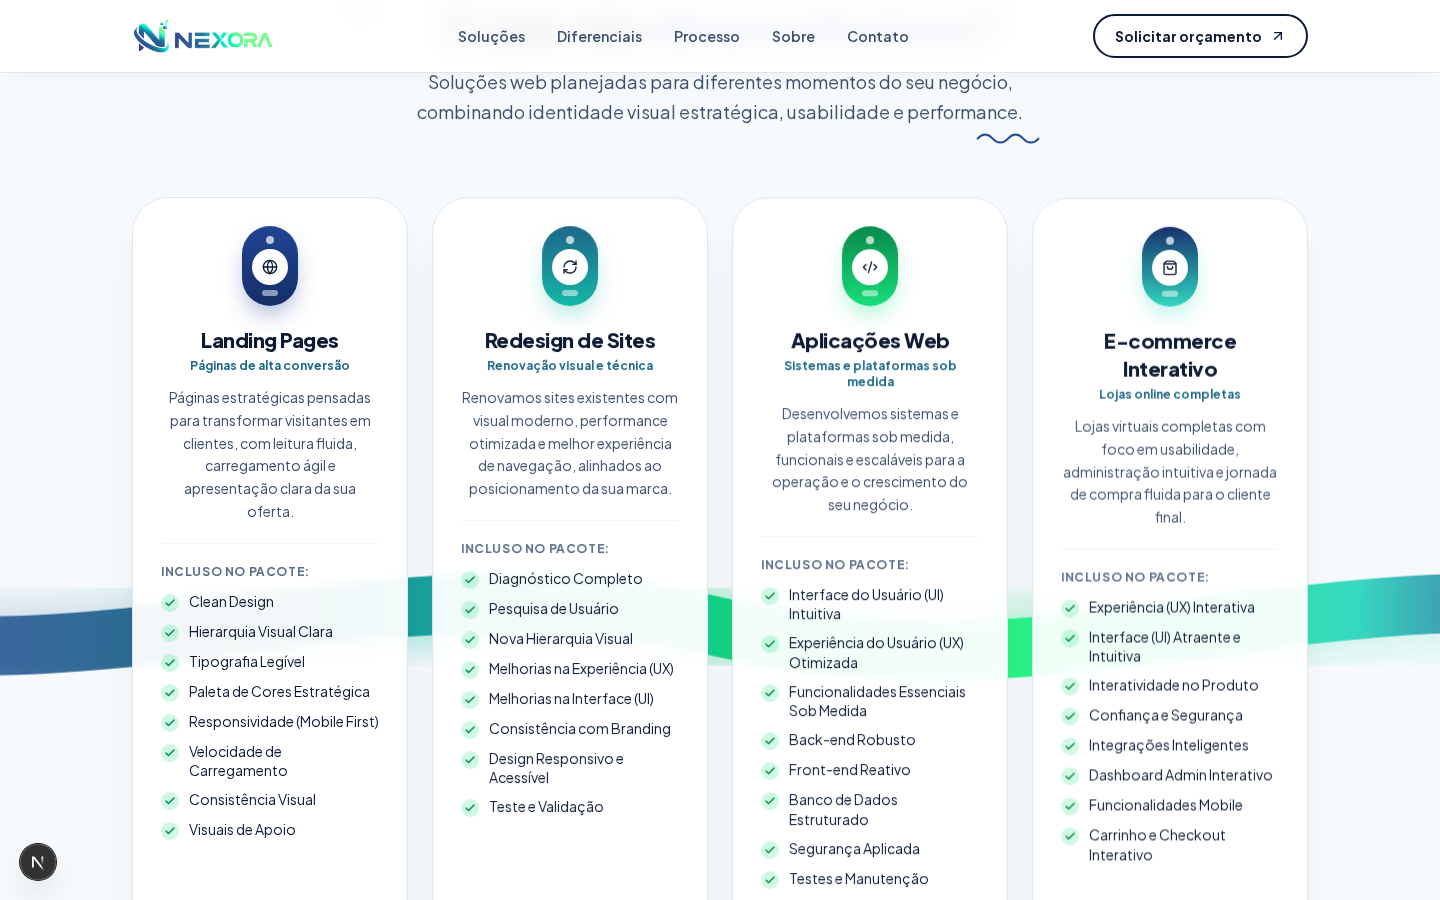
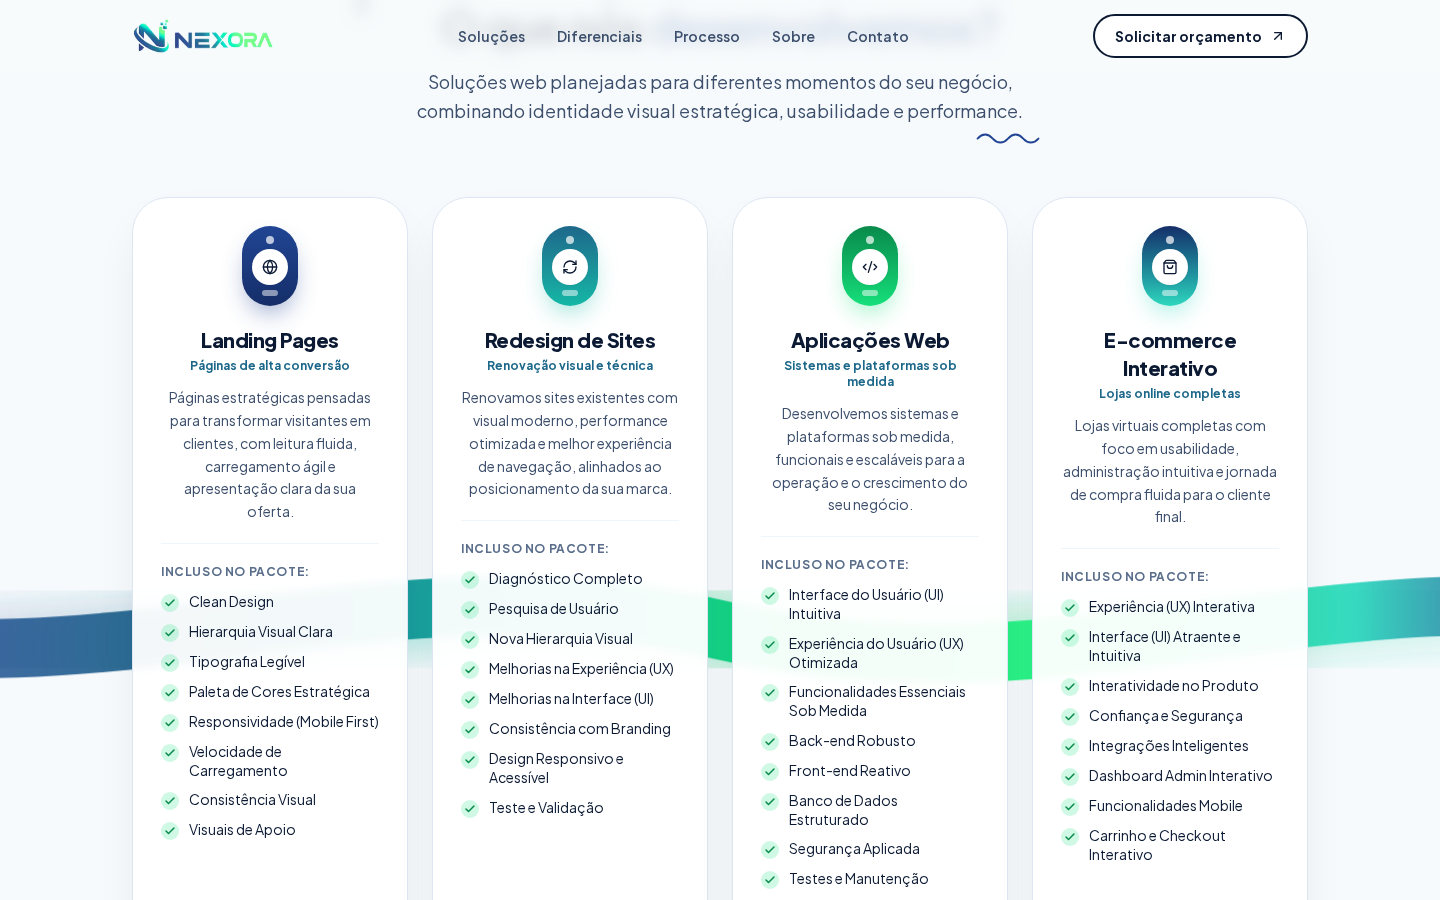
refactor: update brand ribbon animation and assets
Adjusted the ribbon SVG path and dimensions to improve visual responsiveness and updated the associated validation assets to reflect the design changes.

diff --git a/components/nexora/brand-ribbon.tsx b/components/nexora/brand-ribbon.tsx
@@ -112,39 +112,39 @@ export function WebAppSpotlightRibbon({ className = '' }: RibbonProps) {
       aria-hidden="true"
       className={`pointer-events-none absolute inset-0 z-0 overflow-hidden select-none ${className}`}
     >
-      <div className="relative -right-[5%] top-1/3 -translate-y-1/2 w-[114%] opacity-35 sm:opacity-45">
+      <div className="absolute -left-[20%] top-1/3 -translate-y-1/2 w-[140%] opacity-35 sm:opacity-45">
         <svg
-          viewBox="0 0 1440 280"
+          viewBox="0 0 1600 280"
           fill="none"
           preserveAspectRatio="none"
-          className="h-56 sm:h-72 w-full"
+          className="h-64 sm:h-80 w-full"
         >
           <defs>
             <linearGradient
               id="nexoraWebAppGrad"
               x1="0"
               y1="140"
-              x2="1440"
+              x2="1600"
               y2="140"
               gradientUnits="userSpaceOnUse"
             >
-              <stop offset="0%" stopColor="#15B8A6" stopOpacity="0.9" />
+              <stop offset="0%" stopColor="#15B8A6" stopOpacity="0.95" />
               <stop offset="35%" stopColor="#2ED8BE" stopOpacity="0.95" />
               <stop offset="65%" stopColor="#16E07B" stopOpacity="1" />
               <stop offset="100%" stopColor="#214594" stopOpacity="0.85" />
             </linearGradient>
           </defs>
           <path
-            d="M -80 70 C 320 220, 680 50, 1040 180 C 1240 250, 1380 170, 1520 140"
+            d="M -150 140 C 300 260, 700 30, 1150 180 C 1380 250, 1500 170, 1750 120"
             stroke="url(#nexoraWebAppGrad)"
-            strokeWidth="48"
+            strokeWidth="56"
             strokeLinecap="round"
             className="hidden sm:block"
           />
           <path
-            d="M -80 70 C 320 220, 680 50, 1040 180 C 1240 250, 1380 170, 1520 140"
+            d="M -150 140 C 300 260, 700 30, 1150 180 C 1380 250, 1500 170, 1750 120"
             stroke="url(#nexoraWebAppGrad)"
-            strokeWidth="24"
+            strokeWidth="28"
             strokeLinecap="round"
             className="block sm:hidden opacity-60"
           />
